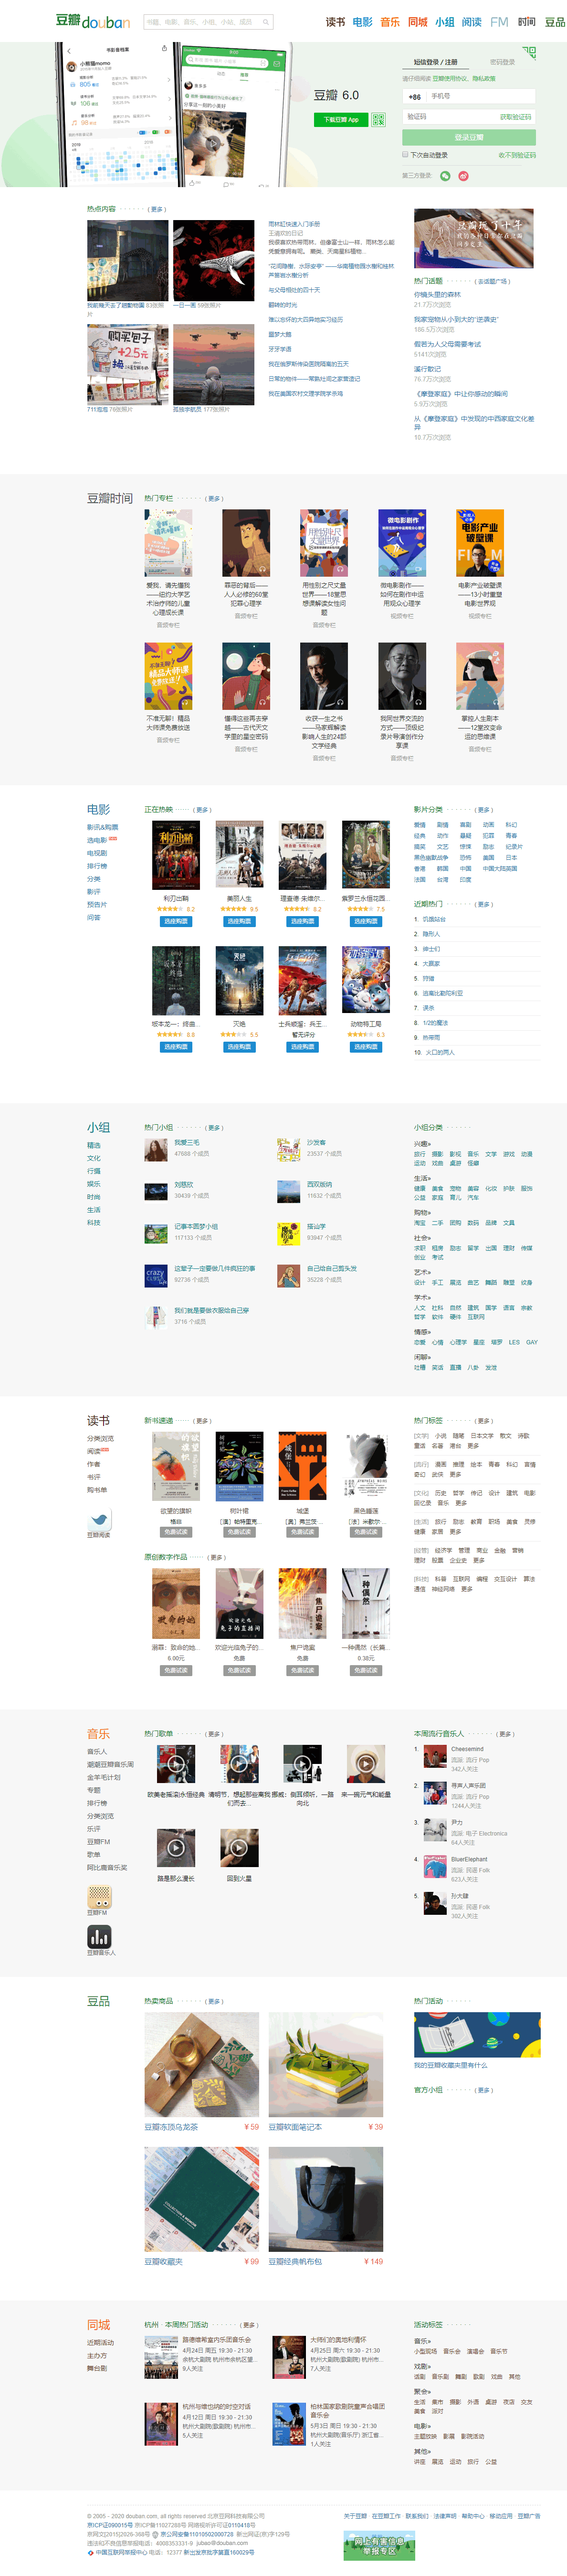
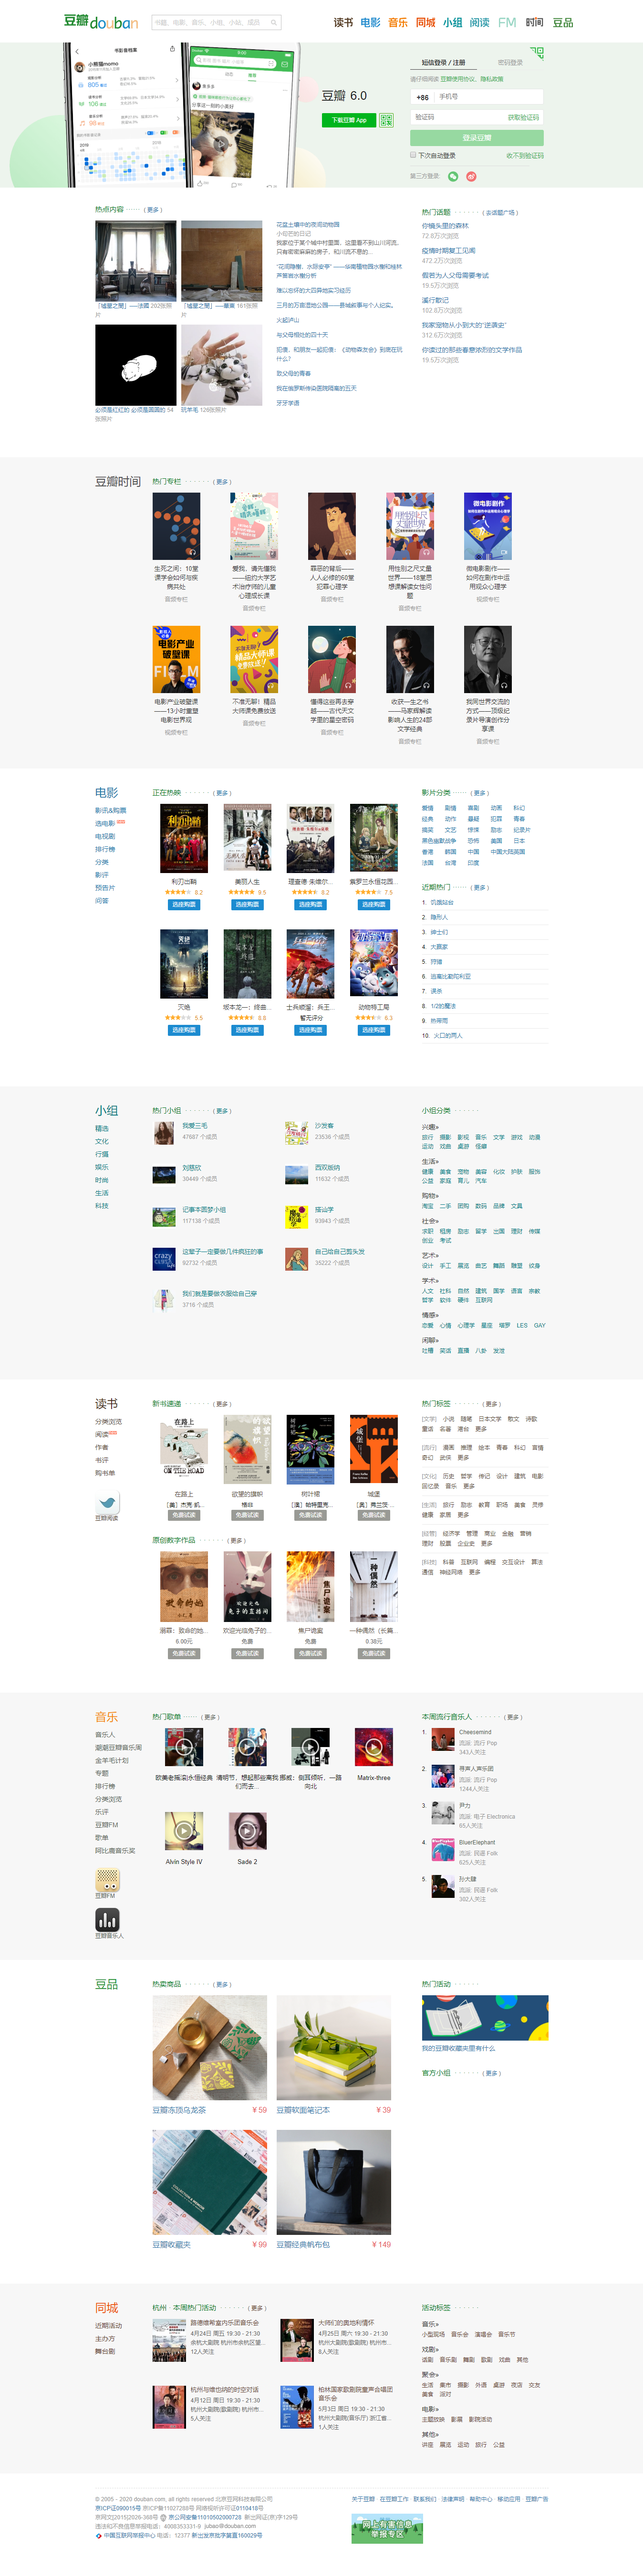
updata
更新登录框部分内容

diff --git a/css/douban.css b/css/douban.css
@@ -1,16 +1,23 @@
 .topbar {
-    width: 1188px;
+    width: 1348px;
     margin: 0 auto;
+
 }
 
 .topbar .icon {
     width: 154px;
     height: 30px;
     display: inline-block;
-    color: transparent;
     background: url(../img/logo_db.png) no-repeat 100% 100%;
     margin-top: 30px;
+    margin-left: 133px;
     vertical-align: bottom;
+}
+.topbar .icon a{
+    width: 154px;
+    height: 30px;
+    color: transparent;
+    display: inline-block;
 }
 
 .topbar .search {
@@ -30,12 +37,19 @@
 .topbar .search .icon1 {
     width: 30px;
     height: 30px;
-    background-color: yellow;
     position: absolute;
     right: 1px;
     top: 1px;
     cursor: pointer;
+    text-align: center;
+    padding: 9px 0;
+
 }
+.topbar .search .icon1 img{
+    width: 12px;
+    height: 12px;
+}
+
 
 .topbar .search input::placeholder {
     color: #cccbc1;
@@ -47,7 +61,11 @@
     vertical-align: bottom;
 }
 
-.topbar .nav a {
+.topbar .nav ul li{
+    float: left;
+}
+
+.topbar .nav ul li a {
     width: 40px;
     height: 20px;
     float: left;
@@ -55,3 +73,101 @@
     margin-right: 16px;
     margin-top: 6px;
 }
+
+.topbar .nav ul li:nth-child(1) a{
+    background: url('../img/anony_nav_logo.png') no-repeat;
+}
+
+.topbar .nav ul li:nth-child(2) a{
+    background: url('../img/anony_nav_logo.png') no-repeat;
+    background-position-x: -60px;
+}
+
+.topbar .nav ul li:nth-child(3) a{
+    background: url('../img/anony_nav_logo.png') no-repeat;
+    background-position-x: -120px;
+}
+
+.topbar .nav ul li:nth-child(4) a{
+    background: url('../img/anony_nav_logo.png') no-repeat;
+    background-position-x: -300px;
+}
+
+.topbar .nav ul li:nth-child(5) a{
+    background: url('../img/anony_nav_logo.png') no-repeat;
+    background-position-x: -180px;
+}
+
+.topbar .nav ul li:nth-child(6) a{
+    background: url('../img/ic_read_home_nav.png') no-repeat;
+}
+
+.topbar .nav ul li:nth-child(7) a{
+    background: url('../img/anony_nav_logo.png') no-repeat;
+    background-position-x: -240px;
+}
+
+.topbar .nav ul li:nth-child(8) a{
+    background: url('../img/ic_shijian_home_nav.png') no-repeat;
+    height: 21px;
+    margin-top: 5px;
+}
+.topbar .nav ul li:nth-child(9) a{
+    background: url('../img/anony_nav_logo.png') no-repeat;
+    width: 43px;
+    background-position-x: -420px;
+}
+
+.login{
+    margin-top: 30px;
+    background-color: #edf4ed;
+}
+
+.login .container{
+    width: 1348px;
+    margin: 0 auto;
+}
+
+.login .container .side{
+    display: inline-block;
+    width: 820px;
+    height: 305px;
+    margin-left: 18px;
+    background: url(../img/16ad990ec23uwn790d4.jpg) no-repeat;
+    background-size: contain;
+    vertical-align: bottom;
+    position: relative;
+}
+.login .container .side .download{
+    position: absolute;
+    width: 152px;
+    height: 80px;
+    right: 0;
+    top: 90px;
+}
+
+.login .container .side .download p{
+    font-size: 25px;
+    color: #111;
+    line-height: 24px;
+    margin-bottom: 35px;
+}
+.login .container .side .download a{
+    display: inline-block;
+    width: 116px;
+    height: 30px;
+    color: white;
+    background-color: #00b51d;
+    line-height: 30px;
+    font-size: 12px;
+    text-align: center;
+    border-radius: 1px;
+}
+.login .container .side .download img{
+    width: 30px;
+    vertical-align: bottom;
+    border: 1px solid #00b51d;
+    box-sizing: border-box;
+    border-radius: 1px;
+}
+

diff --git a/douban.html b/douban.html
@@ -4,7 +4,7 @@
 <head>
     <meta charset="UTF-8">
     <meta name="viewport" content="width=device-width, initial-scale=1.0">
-    <title>Document</title>
+    <title>豆瓣首页</title>
     <link rel="stylesheet" href="/css/reset.css">
     <link rel="stylesheet" href="/css/conmon.css">
     <link rel="stylesheet" href="/css/douban.css">
@@ -12,21 +12,58 @@
 
 <body>
     <div class="topbar">
-        <div class="icon">豆瓣</div>
-        <form class="search" action="" method="get">
+        <div class="icon">
+            <a href="#">豆瓣</a>
+        </div>
+        <form class="search" action="#" method="get">
             <input type="text" placeholder="书籍、电影、音乐、小组、小站、成员">
-            <button class="icon1"></button>
+            <button class="icon1"> 
+                <img src="/img/bn_srh_1.png" alt="搜索">
+            </button>
         </form>
-        <div class="nav clearfix">
-            <a href="">1</a>
-            <a href="">2</a>
-            <a href="">3</a>
-            <a href="">4</a>
-            <a href="">5</a>
-            <a href="">6</a>
-            <a href="">7</a>
-            <a href="">8</a>
-            <a href="">9</a>
+        <div class="nav">
+            <ul class="clearfix">
+                <li>   
+                     <a href="">读书</a>
+                </li>
+                <li>
+                    <a href="">电影</a>
+                </li>
+                <li>
+                    <a href="">音乐</a>
+                </li>
+                <li>
+                    <a href="">同城</a>
+                </li>
+                <li>
+                    <a href="">小组</a>
+                </li>
+                <li>
+                    <a href="">阅读</a>
+                </li>
+                <li>
+                    <a href="">FM</a>
+                </li>
+                <li>
+                    <a href="">时间</a>
+                </li>
+                <li>
+                    <a href="">豆品</a>
+                </li>
+            </ul>
+        </div>
+    </div>
+    <div class="login">
+        <div class="container">
+            <div class="side">
+                <div class="download">
+                    <p>豆瓣<span> 6.0</span></p>
+                    <a href="">
+                        下载豆瓣 App
+                    </a>
+                    <img src="/img/icon_qrcode_green.png" alt="">
+                </div>
+            </div>
         </div>
     </div>
 </body>

diff --git a/css/reset.css b/css/reset.css
@@ -34,8 +34,13 @@ a:hover {
     text-decoration: none
 }
 
-clearfix::after {
-    content: "";
-    display: block;
-    clear: both;
+button{
+    border: none;
+    background-color: transparent;
 }
+
+button:focus{
+    outline-style: none;
+}
+
+

diff --git a/css/conmon.css b/css/conmon.css
@@ -6,3 +6,10 @@ input {
 input:focus {
     outline-style: none;
 }
+
+/* 清楚浮动 */
+.clearfix::after {
+    content: "";
+    display: block;
+    clear: both;
+}
